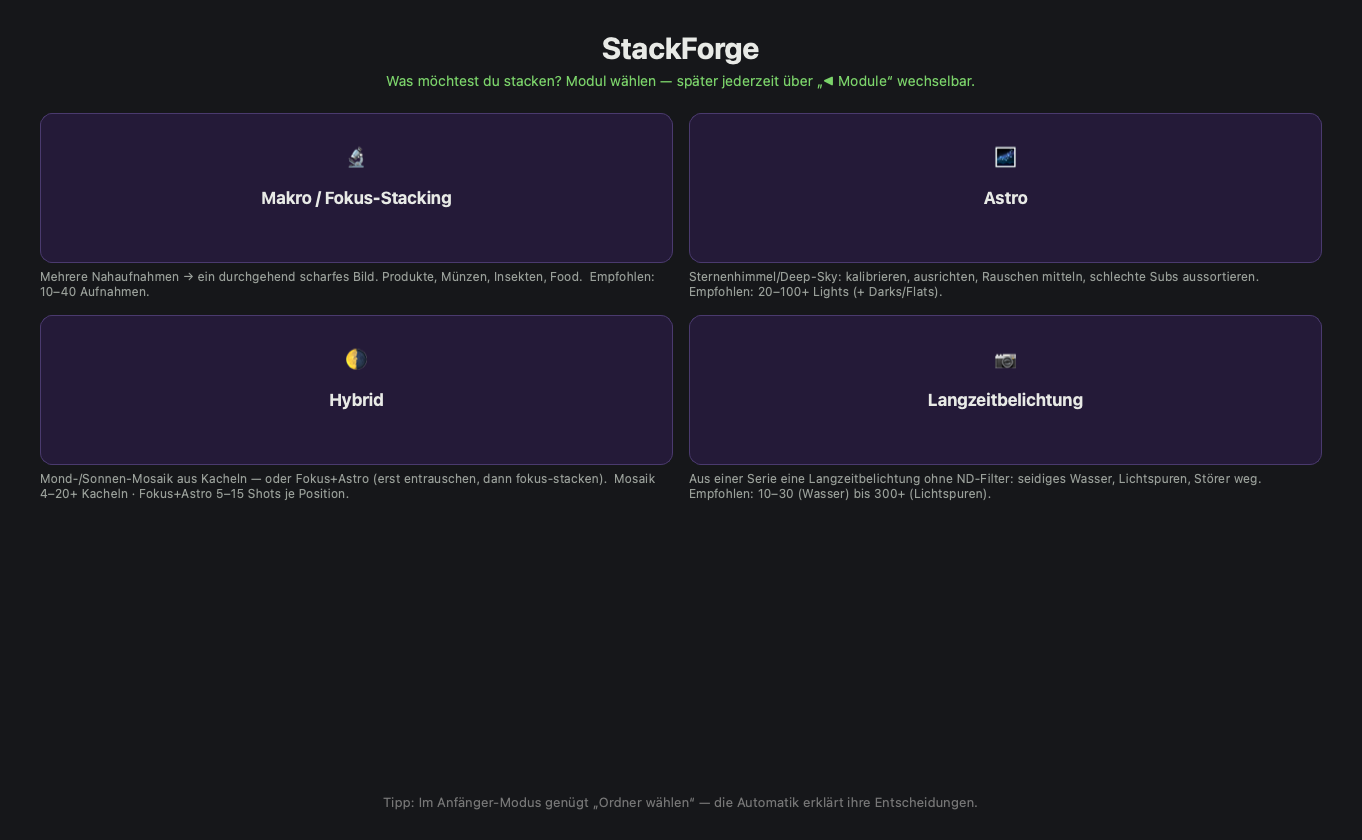
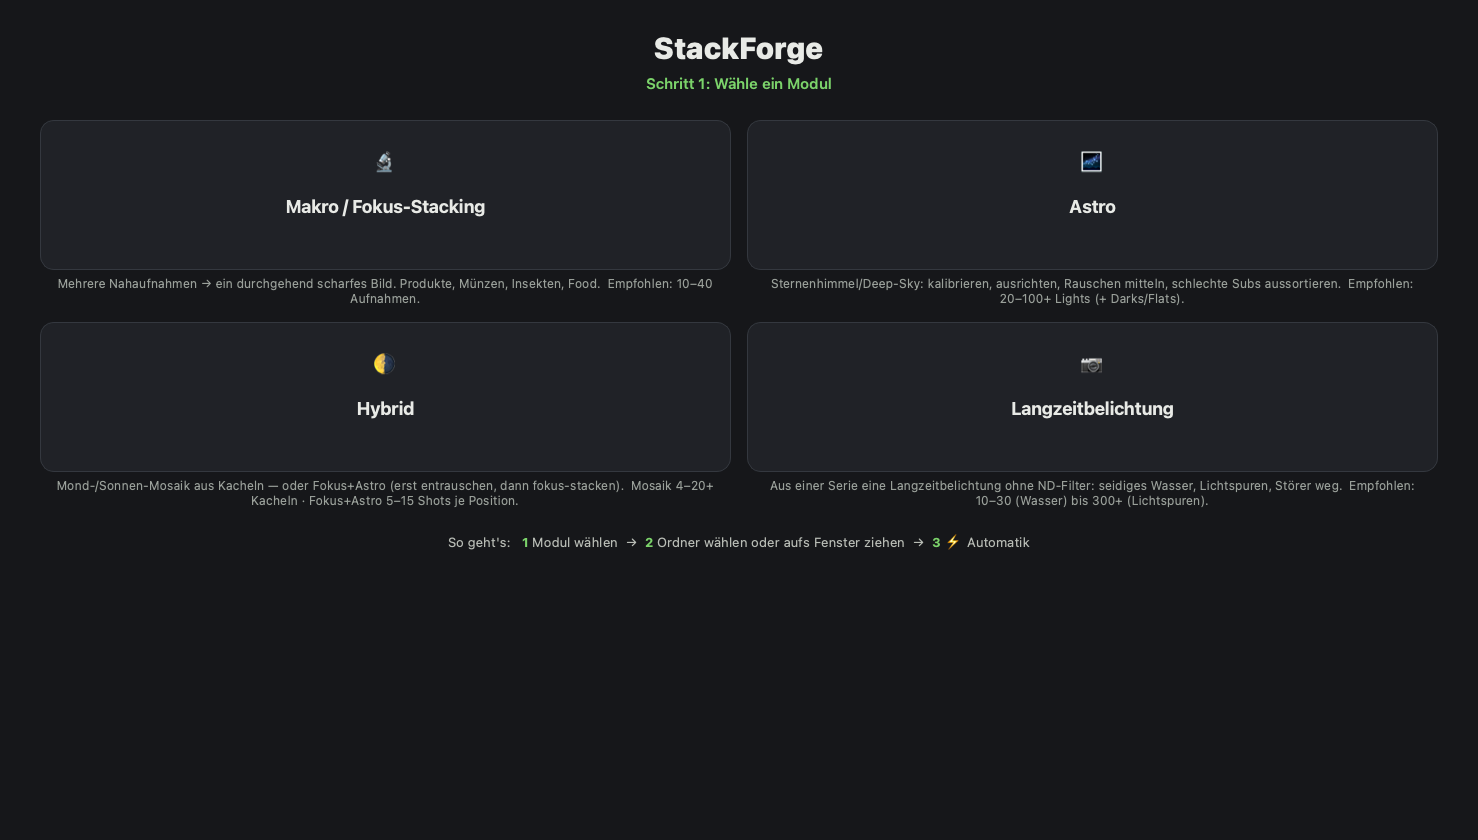
v1.3.0: Export-Dialog mit Auswahl + Welcome-Klarheit + UI-Politur
- export_result jetzt Dialog: Ziele (Web/Insta/WhatsApp/Web/4K/Druck-TIFF) + Ausgabe-Schärfung +
  JPG-Qualität + Photoshop-Ebenen-Datei + 16-bit-TIFF; sichtbarer '📦 Export'-Knopf + ⌘E
- Welcome-Screen: 'Schritt 1: Wähle ein Modul' + klarer 3-Schritt-Ablauf unten (löst 'wo Ordner einfügen?'),
  grüne Karten statt Lila-Reste
- UI-Politur: einheitliche Grautöne (#9aa09a), Vorschau gestrichelter Rahmen, mehr Knopf-Abstand
- en.json 220, alle 24 Tests grün, Docs/README

diff --git a/ui/main_window.py b/ui/main_window.py
@@ -262,7 +262,7 @@ class MainWindow(QMainWindow):
         self.auto_btn.clicked.connect(lambda: self.run(auto=True))
         p1.addWidget(self.auto_btn)
         hint = QLabel("Ein Klick genügt. Für mehr Kontrolle mit „Weiter →“ durch die Schritte.")
-        hint.setStyleSheet("color:#888;"); hint.setWordWrap(True)
+        hint.setStyleSheet("color:#9aa09a;"); hint.setWordWrap(True)
         p1.addWidget(hint)
 
         # Vorlage (Motiv) — setzt passende Makro-Einstellungen
@@ -608,7 +608,7 @@ class MainWindow(QMainWindow):
         vg = QVBoxLayout(g_vlm)
         note = QLabel("Ohne KI läuft alles per Heuristik (überall lauffähig). Optional eine "
                       "Bild-KI zuschalten — lokal/Server oder ein Anbieter mit API-Schlüssel.")
-        note.setWordWrap(True); note.setStyleSheet("color:#888;")
+        note.setWordWrap(True); note.setStyleSheet("color:#9aa09a;")
         vg.addWidget(note)
         self.vlm_provider = QComboBox()
         # (Anzeige, Endpoint, Modell-Vorschlag, braucht_key)
@@ -682,10 +682,10 @@ class MainWindow(QMainWindow):
         self.preview = QLabel("Ordner hierher ziehen oder oben wählen — dann ⚡ Automatik")
         self.preview.setAlignment(Qt.AlignCenter)
         self.preview.setMinimumHeight(220)
-        self.preview.setStyleSheet("color:#888;border:1px solid #444;")
+        self.preview.setStyleSheet("color:#8a8f88;border:1px dashed #34383f;border-radius:10px;")
         rv.addWidget(QLabel(tr("Ergebnis")))
         rv.addWidget(self.preview, 2)
-        res_btns = QHBoxLayout()
+        res_btns = QHBoxLayout(); res_btns.setSpacing(8)
         self.cmp_btn = QPushButton(tr("🔍  Vorher/Nachher"))
         self.cmp_btn.setToolTip("Schieberegler: schärfstes Einzelfoto gegen das fertige Bild vergleichen.")
         self.cmp_btn.setEnabled(False)
@@ -706,12 +706,15 @@ class MainWindow(QMainWindow):
         self.ghost_btn.setToolTip("Zeigt rot, wo Bewegung/Ghosting wahrscheinlich ist "
                                   "(nur wenn beim Lauf erzeugt).")
         self.ghost_btn.clicked.connect(self.open_ghostmap); self.ghost_btn.setEnabled(False)
+        self.export_btn = QPushButton(tr("📦  Export"))
+        self.export_btn.setToolTip(tr("Exportieren: Ziele, Schärfung, Photoshop-Ebenen, 16-bit (⌘E)."))
+        self.export_btn.clicked.connect(self.export_result); self.export_btn.setEnabled(False)
         for b in (self.cmp_btn, self.openfolder_btn, self.open_btn, self.adjust_btn,
-                  self.ghost_btn, self.retouch_btn):
+                  self.ghost_btn, self.retouch_btn, self.export_btn):
             res_btns.addWidget(b)
         rv.addLayout(res_btns)
         # zweite Reihe: externe Astro-Tools (GraXpert/StarNet) — Ein-Klick falls Pfad gesetzt/gefunden
-        res_btns2 = QHBoxLayout()
+        res_btns2 = QHBoxLayout(); res_btns2.setSpacing(8)
         self.graxpert_btn = QPushButton(tr("🌌  GraXpert (Gradient)"))
         self.graxpert_btn.setToolTip(tr("GraXpert: Hintergrund/Gradient (Lichtverschmutzung) "
                                         "entfernen. Gefunden = Ein-Klick + automatischer Reimport; "
@@ -829,12 +832,12 @@ class MainWindow(QMainWindow):
         lay = QVBoxLayout(page)
         lay.setContentsMargins(40, 30, 40, 30)
         head = QLabel("StackForge")
-        head.setStyleSheet("font-size:30px;font-weight:bold;")
+        head.setStyleSheet("font-size:30px;font-weight:800;letter-spacing:0.5px;")
         head.setAlignment(Qt.AlignCenter)
-        sub = QLabel(tr("Was möchtest du stacken? Modul wählen — später jederzeit über „◀ Module“ wechselbar."))
-        sub.setStyleSheet("color:#7bd36a;font-size:14px;")
+        sub = QLabel(tr("Schritt 1: Wähle ein Modul"))
+        sub.setStyleSheet("color:#7bd36a;font-size:15px;font-weight:600;")
         sub.setAlignment(Qt.AlignCenter)
-        lay.addWidget(head); lay.addWidget(sub); lay.addSpacing(18)
+        lay.addWidget(head); lay.addSpacing(2); lay.addWidget(sub); lay.addSpacing(22)
 
         grid = QGridLayout(); grid.setSpacing(16)
         cards = [
@@ -858,19 +861,26 @@ class MainWindow(QMainWindow):
             btn.setText(f"{emoji}\n\n{name}\n")
             btn.setToolTip(desc)
             btn.setStyleSheet(
-                "QPushButton{font-size:17px;font-weight:bold;text-align:center;"
-                "border:1px solid #4a3a6e;border-radius:12px;padding:14px;background:#241a38;}"
-                "QPushButton:hover{background:#3c2d5e;border-color:#5cc85c;}")
-            d = QLabel(desc); d.setWordWrap(True); d.setStyleSheet("color:#9aa09a;font-size:12px;")
-            cell = QWidget(); cv = QVBoxLayout(cell); cv.setContentsMargins(0, 0, 0, 0)
+                "QPushButton{font-size:18px;font-weight:bold;text-align:center;color:#e8eae6;"
+                "border:1px solid #34383f;border-radius:14px;padding:16px;background:#202227;}"
+                "QPushButton:hover{background:#262a2c;border:2px solid #4caf50;}")
+            d = QLabel(desc); d.setWordWrap(True)
+            d.setStyleSheet("color:#9aa09a;font-size:12px;padding:0 6px;")
+            d.setAlignment(Qt.AlignCenter)
+            cell = QWidget(); cv = QVBoxLayout(cell); cv.setContentsMargins(0, 0, 0, 0); cv.setSpacing(6)
             cv.addWidget(btn); cv.addWidget(d)
             btn.clicked.connect(lambda _=False, t=idx: self._choose_module(t))
             grid.addWidget(cell, n // 2, n % 2)
         lay.addLayout(grid)
+        lay.addSpacing(20)
+        # Klarer 3-Schritt-Ablauf (löst die „wo Ordner einfügen?"-Verwirrung)
+        steps = QLabel(tr("So geht's:&nbsp;&nbsp; <b style='color:#7bd36a'>1</b> Modul wählen &nbsp;→&nbsp; "
+                          "<b style='color:#7bd36a'>2</b> Ordner wählen oder aufs Fenster ziehen &nbsp;→&nbsp; "
+                          "<b style='color:#7bd36a'>3</b> ⚡ Automatik"))
+        steps.setTextFormat(Qt.RichText); steps.setAlignment(Qt.AlignCenter)
+        steps.setStyleSheet("font-size:13px;color:#b9bdb6;")
+        lay.addWidget(steps)
         lay.addStretch(1)
-        hint = QLabel(tr("Tipp: Im Anfänger-Modus genügt „Ordner wählen“ — die Automatik erklärt ihre Entscheidungen."))
-        hint.setStyleSheet("color:#777;"); hint.setAlignment(Qt.AlignCenter)
-        lay.addWidget(hint)
         return page
 
     def _choose_module(self, task_index):
@@ -1437,6 +1447,7 @@ class MainWindow(QMainWindow):
         self.cmp_btn.setEnabled(bool(self.before_path))
         self.ghost_btn.setEnabled(bool(self._ghostmap_path()))
         self.send_btn.setEnabled(True); self.reimport_btn.setEnabled(True)
+        self.export_btn.setEnabled(True)
         # GraXpert/StarNet nur bei Himmels-Modulen sinnvoll (Astro/Langzeit/Hybrid), nicht Makro
         sky = (getattr(self, "is_astro", False) or getattr(self, "is_longexp", False)
                or getattr(self, "is_hybrid", False))
@@ -1954,27 +1965,83 @@ class MainWindow(QMainWindow):
         self._set_preview(paths[self._strip_idx])
 
     def export_result(self):
-        """Aktuelles Ergebnis exportieren: teilbares JPG + gewählte Presets, dann Ordner zeigen."""
+        """Export-Dialog: auswählen WAS exportiert wird (Ziele, Schärfung, Photoshop-Ebenen,
+        16-bit-TIFF), dann schreiben + Ordner zeigen."""
         if not self.result_path or cv2 is None:
             QMessageBox.information(self, tr("Exportieren"), tr("Erst ein Ergebnis erzeugen.")); return
-        try:
+        dlg = QDialog(self); dlg.setWindowTitle(tr("Exportieren")); dlg.resize(440, 480)
+        lay = QVBoxLayout(dlg)
+
+        g1 = QGroupBox(tr("Ziele")); g1l = QVBoxLayout(g1)
+        targets = {}
+        for key, lbl in [("webjpg", tr("Web-JPG (zum Teilen)")), ("instagram", "Instagram (1080 px)"),
+                         ("whatsapp", "WhatsApp (1600 px)"), ("web", "Web (2048 px)"),
+                         ("4k", "4K (3840 px)"), ("print", tr("Druck (16-bit-TIFF, volle Größe)"))]:
+            cb = QCheckBox(lbl); targets[key] = cb; g1l.addWidget(cb)
+        targets["webjpg"].setChecked(True)
+        lay.addWidget(g1)
+
+        g2 = QGroupBox(tr("Optionen")); g2l = QGridLayout(g2)
+        psd = QCheckBox(tr("Photoshop-Ebenen-Datei (.tif mit Ebenen)"))
+        tiff16 = QCheckBox(tr("16-bit-TIFF (verlustfrei)"))
+        g2l.addWidget(psd, 0, 0, 1, 2); g2l.addWidget(tiff16, 1, 0, 1, 2)
+        g2l.addWidget(QLabel(tr("Ausgabe-Schärfung")), 2, 0)
+        sharp = QSpinBox(); sharp.setRange(0, 50); sharp.setValue(0); sharp.setSuffix(" %")
+        sharp.setToolTip(tr("Leichtes Nachschärfen beim Export. 0 = aus."))
+        g2l.addWidget(sharp, 2, 1)
+        g2l.addWidget(QLabel(tr("JPG-Qualität")), 3, 0)
+        jq = QSpinBox(); jq.setRange(60, 100); jq.setValue(92); g2l.addWidget(jq, 3, 1)
+        lay.addWidget(g2)
+
+        info = QLabel(); info.setStyleSheet("color:#9aa09a;font-size:11px;"); lay.addWidget(info)
+        row = QHBoxLayout()
+        ok = QPushButton(tr("Exportieren")); ok.setObjectName("primary")
+        cancel = QPushButton(tr("Abbrechen"))
+        row.addStretch(1); row.addWidget(cancel); row.addWidget(ok); lay.addLayout(row)
+        cancel.clicked.connect(dlg.reject)
+
+        def do_export():
             import focus_cull_stack as F
-        except Exception as e:
-            QMessageBox.warning(self, tr("Exportieren"), f"{e}"); return
-        stack_dir = os.path.dirname(self.result_path)
-        export_dir = os.path.join(self._work_dir(), "export")
-        chosen = [k for k, cb in self.exp_targets.items() if cb.isChecked()]
-        try:
-            F.export_web_jpg(stack_dir, export_dir)
-            if chosen:
-                F.export_targets(stack_dir, export_dir, chosen)
-        except Exception as e:
-            QMessageBox.warning(self, tr("Exportieren"), f"{e}"); return
-        n = len(os.listdir(export_dir)) if os.path.isdir(export_dir) else 0
-        self._append(f"\n📦 Exportiert ({', '.join(chosen) if chosen else 'Web-JPG'}) → "
-                     f"{export_dir} ({n} Datei(en))\n")
-        if os.path.isdir(export_dir):
+            import stacker
+            stack_dir = os.path.dirname(self.result_path)
+            export_dir = os.path.join(self._work_dir(), "export")
+            os.makedirs(export_dir, exist_ok=True)
+            chosen = [k for k in ("instagram", "whatsapp", "web", "4k", "print") if targets[k].isChecked()]
+            res = cv2.imread(self.result_path, cv2.IMREAD_UNCHANGED)
+            base = os.path.splitext(os.path.basename(self.result_path))[0]
+            written = 0
+            try:
+                if sharp.value() > 0 and res is not None:
+                    res = stacker.unsharp_mask(res, sharp.value(), 0.8)
+                if targets["webjpg"].isChecked() and res is not None:
+                    img8 = (res / 256).astype("uint8") if res.dtype != cv2.CV_8U and res.max() > 255 else res
+                    cv2.imwrite(os.path.join(export_dir, f"{base}_web.jpg"), img8,
+                                [int(cv2.IMWRITE_JPEG_QUALITY), jq.value()]); written += 1
+                if tiff16.isChecked() and res is not None:
+                    out = res if res.dtype == "uint16" else (res.astype("float32") * 257).astype("uint16") \
+                        if res.dtype == "uint8" else res
+                    cv2.imwrite(os.path.join(export_dir, f"{base}_16bit.tif"), out,
+                                [int(cv2.IMWRITE_TIFF_COMPRESSION), 1]); written += 1
+                if chosen:
+                    F.export_targets(stack_dir, export_dir, chosen); written += len(chosen)
+                if psd.isChecked():
+                    srcs, names = self._gather_sources()
+                    if srcs and res is not None:
+                        srcs = [cv2.resize(s, (res.shape[1], res.shape[0])) if s.shape[:2] != res.shape[:2]
+                                else s for s in srcs if s is not None]
+                        named = [("Stack (Ergebnis)", res)] + [(n, s) for n, s in zip(names, srcs)]
+                        stacker.write_layered_tiff(os.path.join(export_dir, f"{base}_ebenen.tif"),
+                                                   named, flat_bgr=res); written += 1
+                    else:
+                        self._append("\n⚠️ Ebenen-Datei: keine Quellfotos gefunden (nur Makro).\n")
+            except Exception as e:
+                QMessageBox.warning(dlg, tr("Exportieren"), f"{e}"); return
+            self._append(f"\n📦 Exportiert ({written} Datei(en)) → {export_dir}\n")
             reveal_in_files(export_dir)
+            dlg.accept()
+
+        ok.clicked.connect(do_export)
+        dlg.show(); self._export_dlg = dlg
 
     def resizeEvent(self, e):
         super().resizeEvent(e)

diff --git a/constants.py b/constants.py
@@ -4,7 +4,7 @@ constants.py — gemeinsame Konstanten für StackForge (eine zentrale Definition
 damit Module nicht auseinanderlaufen).
 """
 
-VERSION = "1.2.0"
+VERSION = "1.3.0"
 
 # Kamera-RAW-Formate, die rawpy entwickeln kann
 RAW_EXTS = {".arw", ".cr2", ".cr3", ".nef", ".raf", ".rw2", ".dng", ".orf", ".pef", ".srw"}

diff --git a/docs/GUIDE.de.md b/docs/GUIDE.de.md
@@ -131,7 +131,9 @@ Nach jedem Lauf rechts in der Ergebnis-Leiste:
 - **✏️ Retusche** — Pinsel: scharfe Stellen aus Einzelfotos übers Ergebnis malen
   (nur Fokus-Stacking: Makro + Hybrid Fokus+Astro).
 - **👻 Geister-Karte** — zeigt Bewegungsartefakte beim Fokus-Stacking.
-- **Export-Voreinstellungen:** Instagram / WhatsApp / Web / 4K / Druck.
+- **📦 Export** (oder ⌘E) — Dialog: du wählst **was** exportiert wird — Ziele (Web-JPG /
+  Instagram / WhatsApp / Web / 4K / Druck als 16-bit-TIFF), **Ausgabe-Schärfung**, **JPG-Qualität**,
+  **Photoshop-Ebenen-Datei** und verlustfreies **16-bit-TIFF**.
 - **Batch:** je Unterordner ein eigener Stack. **Watch-Ordner:** automatisch stacken, sobald
   neue Fotos fertig kopiert sind. (Makro, Astro, Langzeit)
 

diff --git a/docs/GUIDE.en.md b/docs/GUIDE.en.md
@@ -130,7 +130,9 @@ After each run, in the result bar on the right:
 - **✏️ Retouch** — brush sharp areas from single frames onto the result
   (focus stacking only: Macro + Hybrid Focus+Astro).
 - **👻 Ghost map** — shows motion artefacts in focus stacking.
-- **Export presets:** Instagram / WhatsApp / Web / 4K / Print.
+- **📦 Export** (or ⌘E) — a dialog where you choose **what** to export — targets (Web JPG /
+  Instagram / WhatsApp / Web / 4K / Print as 16-bit TIFF), **output sharpening**, **JPG quality**,
+  **Photoshop layered file** and lossless **16-bit TIFF**.
 - **Batch:** one stack per subfolder. **Watch folder:** stack automatically once new photos
   finish copying. (Macro, Astro, Long exposure)
 